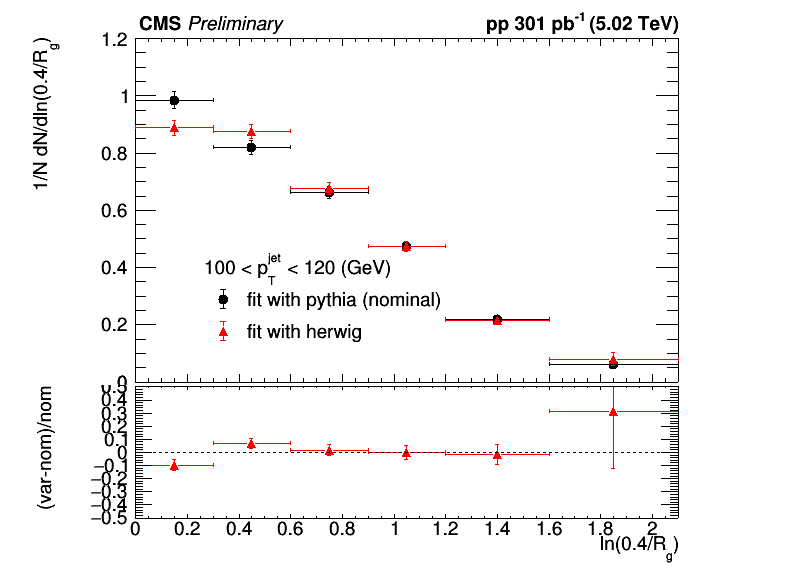
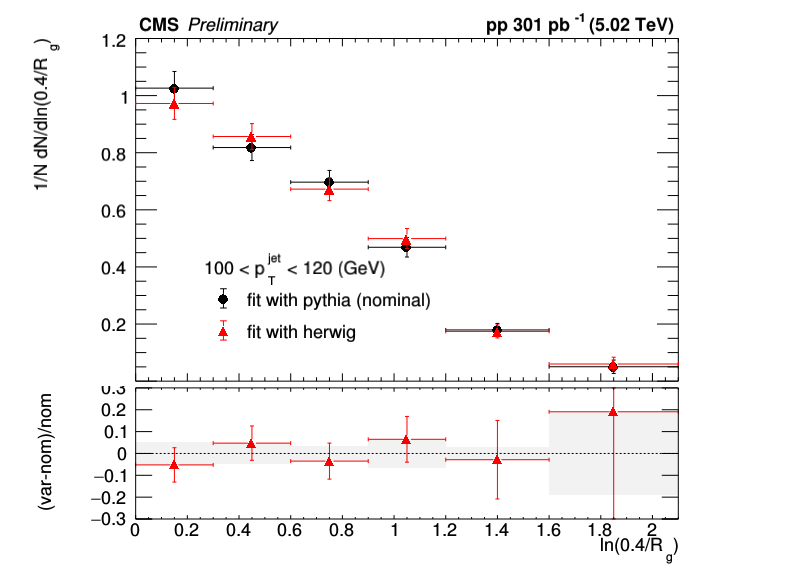
model template unc for bjets

diff --git a/myMacros/C106X/uncertanties/model_fit_unc.C b/myMacros/C106X/uncertanties/model_fit_unc.C
@@ -9,6 +9,7 @@ void model_fit_unc(TString observable="rg")
     gStyle->SetLabelSize(text_size, "XYZ");
     gStyle->SetTitleSize(text_size, "XYZ");
     gStyle->SetErrorX(0.5);
+    gStyle->SetCanvasPreferGL(kTRUE);
 
     TString xlabel;
     if (observable=="rg") xlabel = "ln(0.4/R_{g})";
@@ -18,7 +19,7 @@ void model_fit_unc(TString observable="rg")
 
     TFile *fin_nom = new TFile("../unfolding/histos/pythia_PF40_aggrTMVA_XXT_unfolded_histograms_"+observable+"_jer_nom_jec_nom_withSF.root");
     TH2D *h_nom = (TH2D *) fin_nom->Get("h_data_unfolded")->Clone("h_nom");
-    TFile *fin_her = new TFile("../unfolding/histos/pythia_PF40_aggrTMVA_XXT_unfolded_herwigFit_histograms_"+observable+"_jer_nom_jec_nom_withSF.root");
+    TFile *fin_her = new TFile("../unfolding/histos/pythia_PF40_aggrTMVA_XXT_unfolded_histograms_herwigFit_"+observable+"_jer_nom_jec_nom_withSF.root");
     TH2D *h_her = (TH2D *) fin_her->Get("h_data_unfolded")->Clone("h_her");
     
     int nbins_x = h_nom->GetNbinsX();
@@ -110,10 +111,24 @@ void model_fit_unc(TString observable="rg")
         // save relative uncertainty 
         TH1D *h_model_fit_unc_rel = (TH1D *) h_model_fit_unc->Clone(Form("h_model_fit_unc_rel_%d", ibin_pt));
         h_model_fit_unc_rel->Divide(h_nom_1d);
-        h_model_fit_unc_rel->GetYaxis()->SetRangeUser(-0.5, 0.5);
+        h_model_fit_unc_rel->GetYaxis()->SetRangeUser(-0.3, 0.3);
         h_model_fit_unc_rel->GetYaxis()->SetTitle("(var-nom)/nom");
         h_model_fit_unc_rel->GetYaxis()->SetTitleOffset(2.);
+        h_model_fit_unc_rel->GetYaxis()->SetNdivisions(8);
         h_model_fit_unc_rel->Draw("pe1 same");
+
+        TH1D *h_band = (TH1D *) h_model_fit_unc_rel->Clone("h_band");
+        h_band->Reset();
+        for (int ibin_x=1; ibin_x<=h_model_fit_unc_rel->GetNbinsX(); ibin_x++) {
+            double maxUnc = h_model_fit_unc_rel->GetBinContent(ibin_x);
+            h_band->SetBinContent(ibin_x, 0.);
+            h_band->SetBinError(ibin_x, maxUnc);
+        }
+
+        h_band->SetMarkerSize(0);
+        h_band->SetFillStyle(1001);
+        h_band->SetFillColorAlpha(kBlack, 0.05);
+        h_band->Draw("e2 same");
 
         TLine *line = new TLine(h_model_fit_unc->GetXaxis()->GetBinLowEdge(ibin_x_min), 0, h_model_fit_unc->GetXaxis()->GetBinUpEdge(ibin_x_max), 0);
         line->SetLineStyle(kDashed);
